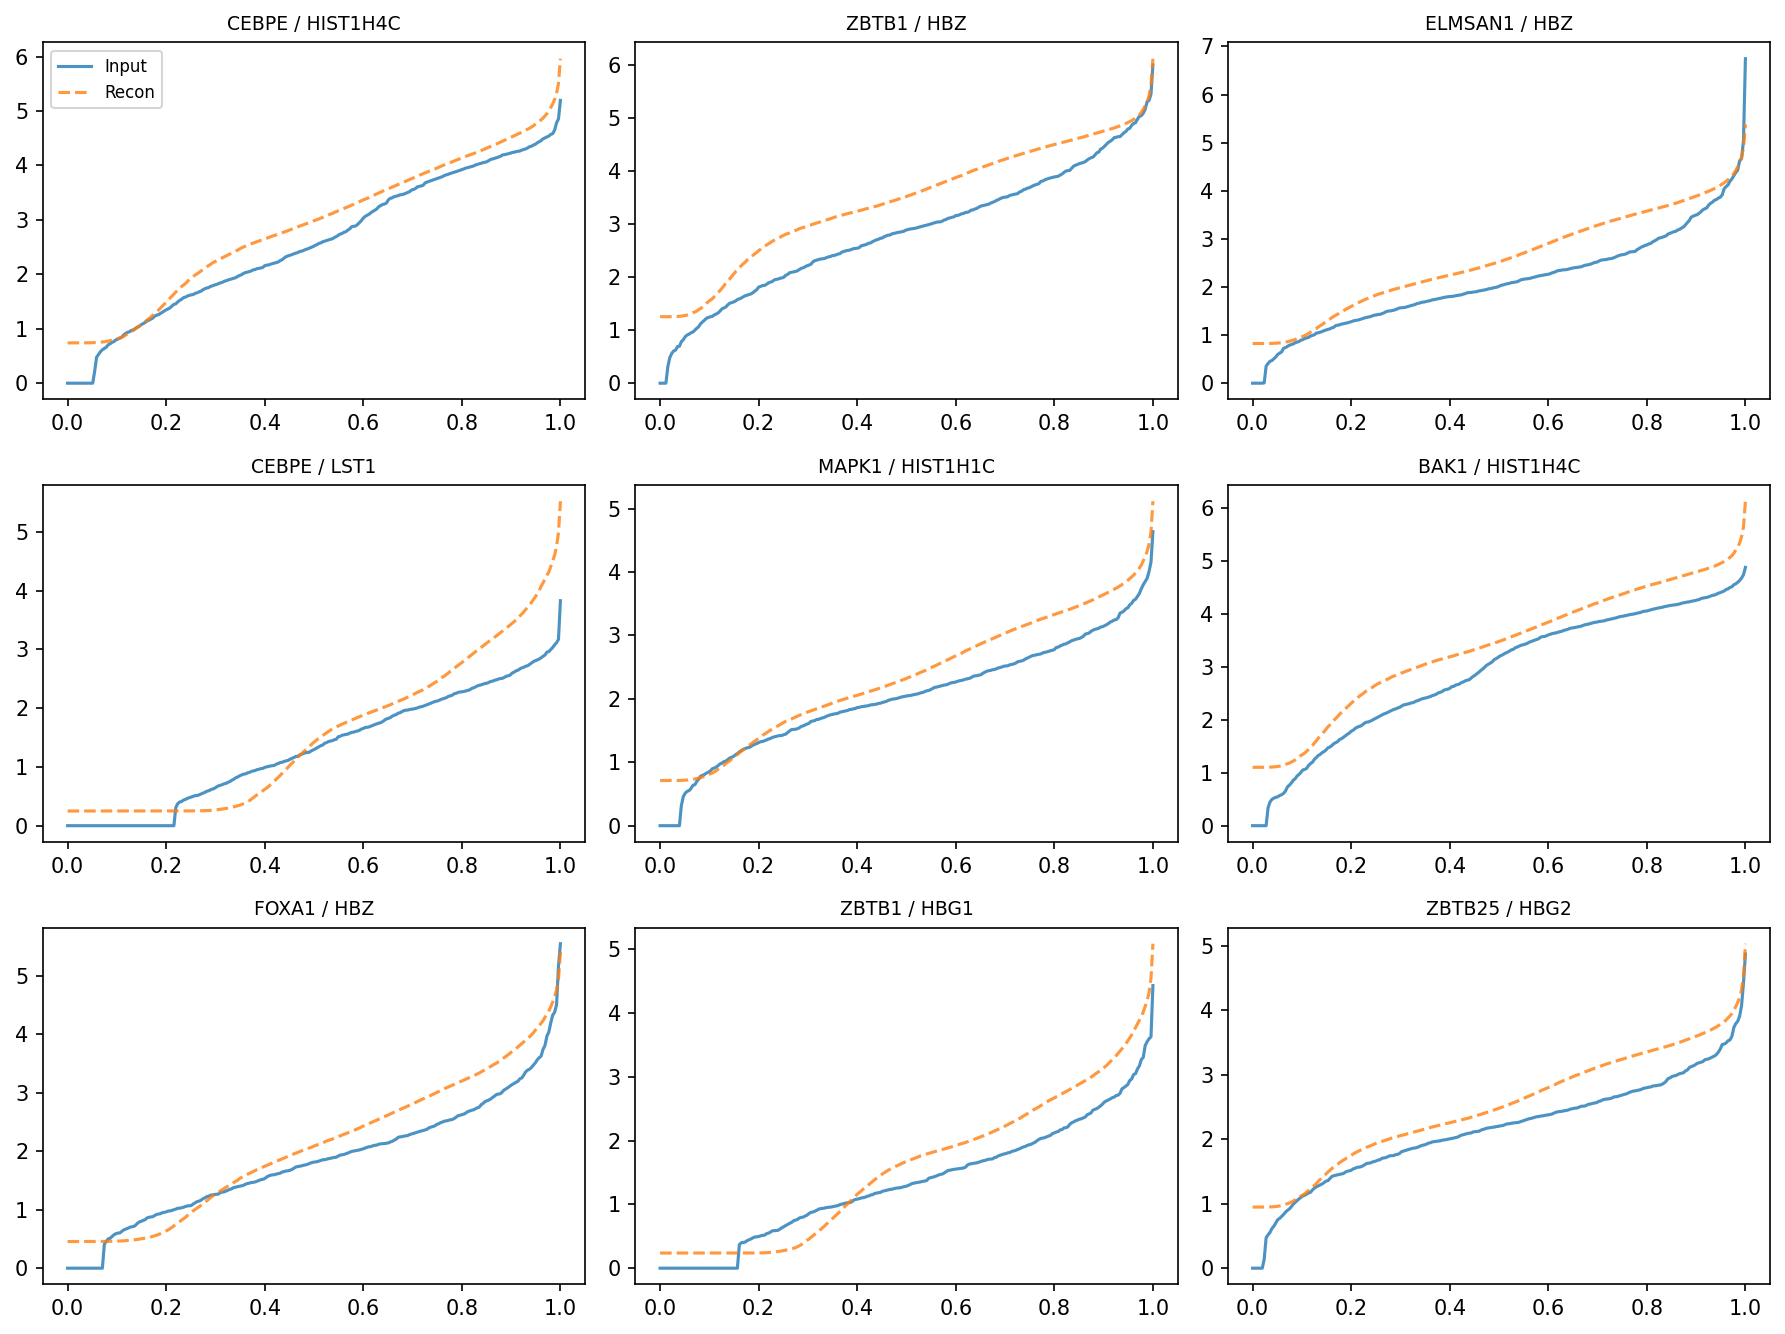
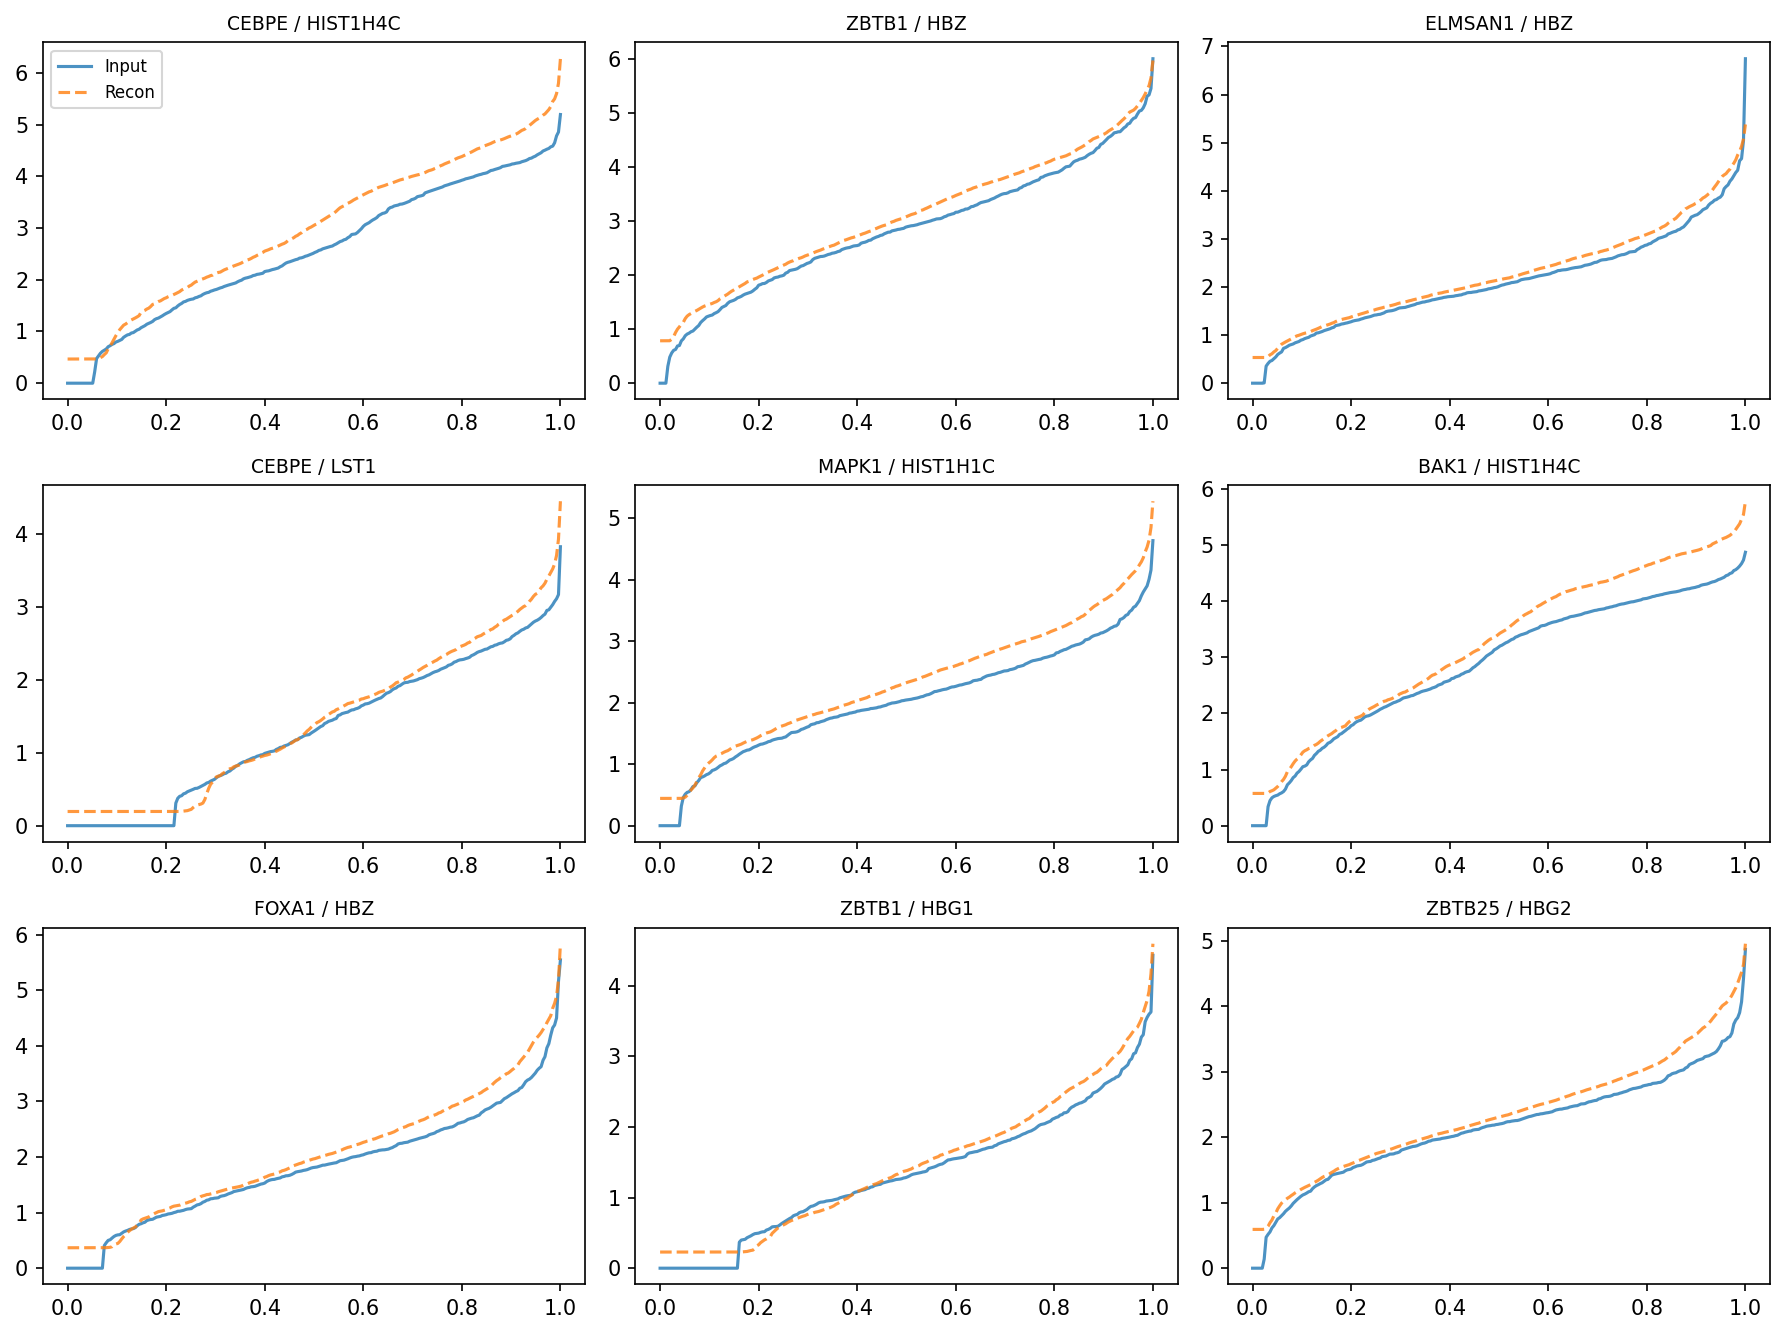
[autoresearch] sharp softplus(beta=10) decoder fixes rightward bias — val_kl=0.000175, val_cramer=0.017, 24/24 active dims

diff --git a/autoresearch/train.py b/autoresearch/train.py
@@ -155,11 +155,12 @@ class DistributionEncoder(nn.Module):
 
 
 class DistributionDecoder(nn.Module):
-    """MLP decoder with monotonicity via cumsum(softplus): z -> quantile grid.
+    """MLP decoder with monotonicity via cumsum(sharp_softplus): z -> quantile grid.
 
-    Uses a deep MLP instead of ConvTranspose to give full flexibility over all
-    256 output positions — critical for zero-inflated distributions that need
-    many near-zero deltas followed by a sharp rise.
+    Uses softplus(beta=10) — much sharper than default beta=1, so deltas are
+    near-zero for negative inputs (eliminating the rightward bias from accumulated
+    small positives) while keeping gradients alive (unlike relu which kills them).
+    At beta=10: softplus(-1) ≈ 4.5e-5 vs beta=1: softplus(-1) ≈ 0.31.
     """
 
     def __init__(self, grid_size: int, latent_dim: int, hidden_dim: int) -> None:
@@ -181,9 +182,10 @@ class DistributionDecoder(nn.Module):
 
     def forward(self, z: torch.Tensor) -> torch.Tensor:
         h = self.mlp(z)
-        # Enforce monotonicity: start + cumsum(softplus(deltas))
+        # Enforce monotonicity: start + cumsum(sharp_softplus(deltas))
+        # beta=10 gives near-zero deltas for flat regions while keeping gradients
         start = h[:, :1]
-        deltas = F.softplus(h[:, 1:])
+        deltas = F.softplus(h[:, 1:], beta=10)
         return torch.cat([start, start + torch.cumsum(deltas, dim=-1)], dim=-1)
 
 
